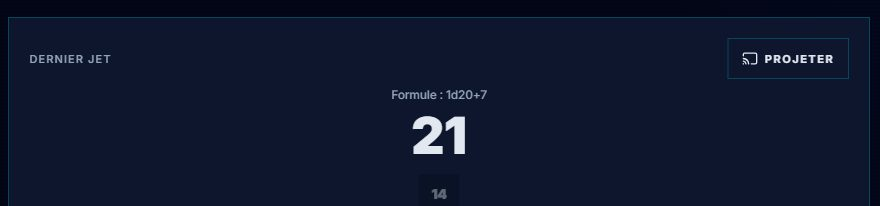
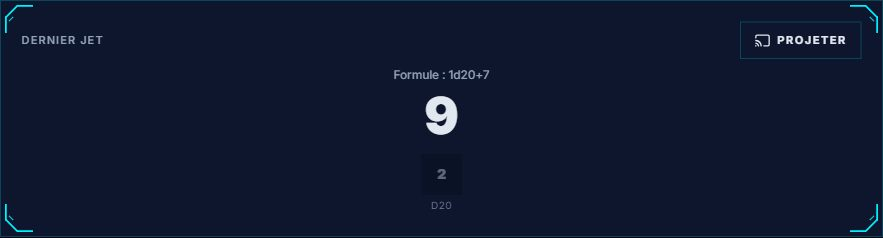
fix(manuel): cadrer le panneau du dernier jet
Capturer le panneau entier plutot qu'un rectangle fixe qui coupait
le detail du de. Rendre le scenario autonome et remplacer uniquement
la capture du guide de projection, apres relecture.

Validation : construction, types, lint global sans diagnostic,
52 tests des protections et un scenario Electron cible reussis.
Consigner l'import PDF valide par David et cloturer cette serie.

A la demande de David : "j'ai fait l'import d'un PDF c'est bon.
Commite et pousse ce qu'il reste". Fichiers etrangers exclus.

diff --git a/e2e/capturesDuManuel.spec.ts b/e2e/capturesDuManuel.spec.ts
@@ -455,7 +455,20 @@ test.describe('les écrans des guides', () => {
     test('le dernier jet de dés', async () => {
         await fermer();
         await ouvrirLeModule(gmos, 'Dice-OS');
-        await capturer('dice-dernier-jet', { x: 230, y: 208, width: 880, height: 206 });
+        // 09/10 : capturer le panneau entier ; un rectangle fixe coupait le détail du dé.
+        // Le scénario prépare son propre jet pour pouvoir régénérer cette seule image.
+        await gmos.fenetre.getByText('Attaque Épée Longue', { exact: true }).click();
+        const dernierJet = gmos.fenetre.locator('[data-panneau="2"]').filter({
+            has: gmos.fenetre.getByRole('heading', { name: 'Dernier jet', exact: true }),
+        });
+        await expect(dernierJet).toHaveCount(1);
+        await expect(dernierJet).toContainText('1d20+7');
+        await fermer();
+        await expect(dernierJet.getByRole('button', { name: 'Projeter', exact: true })).toBeVisible();
+        await dernierJet.screenshot({
+            path: path.join(SORTIE, 'dice-dernier-jet.jpg'), type: 'jpeg', quality: 82, scale: 'css',
+            animations: 'disabled', caret: 'hide',
+        });
     });
 
     test('la carte d’un combattant', async () => {

diff --git a/documentation/Planning/2026-08-23-chantiers-gares.md b/documentation/Planning/2026-08-23-chantiers-gares.md
@@ -142,8 +142,8 @@ rouvre jamais quand il le faudrait »*. **Il l'a fallu huit heures plus tard.**
 
 | Ce qu'on a vu | Comment le revoir | Pourquoi c'est différé |
 | --- | --- | --- |
-| ⚠ **09/10 : la capture du dernier jet laisse apparaître une partie du résultat précédent au bord inférieur.** | `dice-dernier-jet.jpg` du contrôle des 78 captures, dans `e2e-resultats/lint-captures-manuel-lot36` ; rectangle fixe du scénario inchangé (`x: 230, y: 208, width: 880, height: 206`) | **Cadrage du manuel à revoir séparément du typage** : viser le bloc du dernier jet et relire l'image. Aucune image suivie remplacée dans le lot 36. [Contrôle et reprise](2026-10-09-lint-captures-du-manuel.md) |
-| ✅ **09/10 : incompatibilité PDF v1/v2 corrigée au § 128.** | Constat initial : les lecteurs appelaient le module v2.4.5 comme une fonction v1 ; l'import refusait le parseur, l'index n'avait pas de texte PDF et l'IPC échouait | **Lot 39 réalisé, non commité** : lecteur `PDFParse` partagé, destruction attendue, PDF artificiels éprouvés dans l'import, l'index et l'IPC, puis sous Electron en mode Node. Aucun PDF réel lu. [Migration et contrôles](2026-10-09-migration-pdf.md), [constat initial](2026-10-09-lint-ia-et-fournisseurs.md) |
+| ✅ **09/10 : cadrage du dernier jet corrigé au § 129.** | Le rectangle fixe coupait le détail du **jet courant** et le bas du panneau ; le constat initial l'avait pris pour un résultat précédent | **Lot 40 livré dans le commit contenant cette entrée**, commit/push demandés par David : capture du panneau DOM entier, scénario autonome éprouvé seul, image du guide remplacée et relue. [Correction et reprise](2026-10-09-cadrage-dernier-jet.md), [constat initial](2026-10-09-lint-captures-du-manuel.md) |
+| ✅ **09/10 : incompatibilité PDF v1/v2 corrigée au § 128.** | Constat initial : les lecteurs appelaient le module v2.4.5 comme une fonction v1 ; l'import refusait le parseur, l'index n'avait pas de texte PDF et l'IPC échouait | **Lot 39 commité et poussé `1aefeb99`** : lecteur `PDFParse` partagé, destruction attendue, PDF artificiels éprouvés dans l'import, l'index et l'IPC, puis sous Electron en mode Node. Aucun PDF réel lu. [Migration et contrôles](2026-10-09-migration-pdf.md), [constat initial](2026-10-09-lint-ia-et-fournisseurs.md) |
 | ✅ **09/10 : une exception nulle ou un message non textuel casse le diagnostic d'erreur.** | Les quatre écrans/hooks lisent directement `.message` ; `null` provoque une seconde exception, un message numérique casse `.includes` dans la Forge | **Corrigé dans le lot 27 du § 127** : lecteur de message gardé, replis historiques paresseux et marqueur d'authentification conservés. Cas nuls testés dans NotebookLM/butin, reprise vérifiée ; le journal transmet l'exception intacte. Pas d'essai de reconnexion dans l'écran Forge. [Note](2026-10-09-lint-messages-erreur-et-hub.md) |
 | ✅ **09/10 : l'option hf_token de Gradio est ignorée par le SDK installé.** | `ClientOptions` 2.1 expose `token`, pas `hf_token` ; le typage de la génération d'image révèle ce décalage | **Corrigé dans le lot 24 du § 127** : même valeur d'environnement via `token`, deux cas de génération d'image avec SDK/téléchargement/rangement simulés et jeton artificiel ou absent. [Note](2026-10-09-lint-ia-et-fournisseurs.md) |
 | ✅ **08/10 : catégories du formulaire de chronologie hors contrat.** | Sept boutons dont `major/minor/discovery`, contre cinq catégories dans `TimelineEvent` et les filtres | **Corrigé dans le lot 23 du § 127**, selon David : « Aligner le formulaire sur les cinq catégories du modèle (recommandé) ». Les créations utilisent `major-event` ; pas de migration des événements existants. Formulaire et filtre majeur testés. [Note](2026-10-08-lint-interfaces-et-fiches.md) |
@@ -10695,6 +10695,45 @@ dernier jet reste au § 1 bis. Préserver les fichiers étrangers.
 
 ---
 
+**Publication du lot 39.** À la demande « ok commit et pousse 1 et 2 »,
+les douze fichiers PDF sont commités sous **`1aefeb99`** et poussés avec
+`004a814e` et `4e080992`. Pré-push réussi : types, lint sans diagnostic,
+**7 222 tests dans 568 fichiers** (un fichier et quatre tests ignorés),
+construction. Dernier local et poussé `1aefeb99`, branche synchronisée.
+
+### 129 · Cadrage du dernier jet dans le manuel — 09/10/2026
+
+**Origine.** David demande « fais le 3 » : corriger la capture du dernier jet,
+constat du § 1 bis, après publication du lot PDF.
+
+**Réalisé, non commité — lot 40.** `e2e/capturesDuManuel.spec.ts` capture
+le panneau entier, repéré par son titre, au lieu du rectangle fixe.
+Le scénario lance son propre jet rapide « Attaque Épée Longue » ; il est
+exécutable seul. L'image du guide 35 est remplacée et relue : **883 × 238 px**,
+formule, total, dé courant, libellé, bouton et contour complets.
+**Diagnostic précisé :** le morceau coupé était le dé courant, pas un résultat
+précédent. [Preuves et reprise](2026-10-09-cadrage-dernier-jet.md).
+
+**Éprouvé.** Construction, types, lint global (**1 590 fichiers, zéro erreur,
+zéro avertissement**), 52 tests de protection et un scénario Electron ciblé
+passent. Profil temporaire, chemins confinés et matériel désactivé ;
+aucun code applicatif modifié, aucune donnée réelle lue. Pas de nouvelle
+suite complète ou des 79 captures. `git diff --check` propre ; les 21 fichiers
+étrangers sont inchangés.
+
+**Reprise.** Six fichiers Codex non commités : scénario, image et quatre
+documents. Dernier local et poussé `1aefeb99`. Commit sur demande ; l'essai
+PDF représentatif dans l'interface reste distinct. Préserver les fichiers étrangers.
+
+**Clôture le 09/10.** David : **« j'ai fait l'import d'un PDF c'est bon.
+Commite et pousse ce qu'il reste »**. La validation dans l'interface du § 128
+est acquise. Les six fichiers du lot 40 sont livrés dans le commit contenant
+cette entrée ; push autorisé sur `feature/tablet-hub-pwa`, pré-push complet
+conservé et fichiers étrangers exclus. Trame, lint, PDF et cadrage terminés ;
+les essais en séance et sur le matériel restent distincts.
+
+---
+
 ## La vue d'un coup d'œil
 
 | # | Chantier | État | Le premier geste | Bloqué par |
@@ -10761,8 +10800,9 @@ dernier jet reste au § 1 bis. Préserver les fichiers étrangers.
 | 59 | **Le graphe de la Trame en cartes** | ✅ **G0–G7 achevés le 07/10**, § 124. [Cartes et inspecteur](2026-10-07-trame-cartes-realisation.md), [styles](2026-10-07-trame-edition-des-liens.md), [jonctions](2026-10-07-trame-jonctions.md), [ELK intégré](2026-10-07-trame-organisation-elk.md), [prise facilitée](2026-10-07-trame-prise-des-jonctions.md), [sélection multiple construite](2026-10-07-trame-selection-multiple.md). [Six dispositions construites](2026-10-07-trame-types-de-rangement.md) : automatique, étoile, ligne, colonne, arbre, grille ; 724 tests et 34 E2E distincts validés pour ce lot, sept captures et douze planches relues | Évolutions du § 126 également validées par David le 08/10 | [Essai de David consigné le 07/10](2026-10-07-trame-validation.md) ; réalisation et reprise poussées (`1d94f84f`, `ed29f301`) |
 | 60 | **Le lint global** | ✅ **Réparé et contrôlé le 07/10**, § 125 : 1 526 fichiers, zéro erreur, 540 avertissements visibles ; validation complète, types, 6 797 tests et construction passent ; une erreur de lint bloque la validation | Traiter les avertissements à la reprise des modules | [Contrôles et reprise](2026-10-07-lint-global.md), correctif `57d0193c` ; commit et push demandés |
 | 61 | **Édition avancée des liens de Trame** | ✅ **Close et validée par David le 08/10**, § 126 : commentaire, trois accroches par côté, trajet manuel ; déplacement corrigé, types, lint global et construction passent, 19 scénarios Electron distincts après correction (6 802 tests validés pour le lot initial) | — | [Réalisation et reprise](2026-10-08-trame-edition-avancee.md) ; réalisation `84bc01c8`, push demandé |
-| 62 | **Avertissements du lint** | ✅ **540 → 0 avertissement, zéro erreur**, § 127 ; lot 38 commité `4e080992`, dernier poussé `916a3842`. Après la migration PDF séparée : zéro annotation explicite `any` dans `src/`, `electron/` et `e2e/` | Chantier lint terminé | [Analyse](2026-10-08-audit-avertissements-lint.md), [lot 38](2026-10-09-lint-ponts-du-storyboard.md) |
-| 63 | **Lecteurs PDF v2** | ✅ **Lot 39 réalisé non commité**, § 128 : import, index RAG et IPC corrigés ; destruction attendue ; construction, lint et 179 tests passent, PDF artificiels aussi éprouvés sous Electron en mode Node | Commit sur demande | [Migration et reprise](2026-10-09-migration-pdf.md) |
+| 62 | **Avertissements du lint** | ✅ **540 → 0 avertissement, zéro erreur**, § 127 ; lot 38 commité `4e080992` et poussé jusqu'à `1aefeb99`. Après la migration PDF séparée : zéro annotation explicite `any` dans `src/`, `electron/` et `e2e/` | Chantier lint terminé | [Analyse](2026-10-08-audit-avertissements-lint.md), [lot 38](2026-10-09-lint-ponts-du-storyboard.md) |
+| 63 | **Lecteurs PDF v2** | ✅ **Lot 39 commité et poussé `1aefeb99`**, § 128 ; import PDF dans l'interface validé par David le 09/10 : « j'ai fait l'import d'un PDF c'est bon ». Pré-push : types, lint, 7 222 tests, construction réussis | Terminé | [Migration et reprise](2026-10-09-migration-pdf.md) |
+| 64 | **Capture du dernier jet** | ✅ **Lot 40 livré dans le commit contenant cette entrée**, § 129 ; commit et push demandés par David le 09/10. Panneau entier, scénario autonome, image remplacée et relue ; construction, types, lint, 52 tests de protection et un scénario Electron passent | Terminé | [Correction et reprise](2026-10-09-cadrage-dernier-jet.md) |
 
 ### Ce que la soirée du 2026-08-23 a fermé
 

diff --git a/documentation/Planning/2026-10-09-cadrage-dernier-jet.md b/documentation/Planning/2026-10-09-cadrage-dernier-jet.md
@@ -1,0 +1,69 @@
+# Cadrage du dernier jet — lot 40 — 09/10/2026
+
+David demande « fais le 3 » : corriger le cadrage de la capture du dernier jet
+du manuel, après publication du lot PDF et des deux commits locaux précédents.
+Dernier local et poussé : **`1aefeb99`**. Pré-push réussi : types, lint global
+sans diagnostic, **7 222 tests dans 568 fichiers** (un fichier et quatre tests
+ignorés), construction. La branche est synchronisée.
+
+## Correction
+
+Le rectangle fixe de `capturesDuManuel.spec.ts`, à `230, 208, 880, 206`,
+coupait le bas du panneau. La capture vise désormais **le panneau DOM entier**,
+repéré par `data-panneau="2"` et son titre « Dernier jet ». Sa taille réelle
+détermine le cadrage, sans coordonnées liées au placement du module.
+
+Le scénario lance lui-même le jet rapide « Attaque Épée Longue », vérifie
+la formule `1d20+7`, ferme les surcouches et attend le bouton « Projeter ».
+Il peut être lancé seul, sans dépendre du scénario `dice-un-jet`.
+Les options JPEG (qualité 82), échelle CSS et animations désactivées restent.
+
+**Correction du diagnostic initial :** le fragment du bas n'était pas un
+ancien résultat. Le `14` sous le total `21` de l'ancienne image est le dé
+courant, avant le bonus de sept. C'est le détail du jet actuel qui était coupé,
+avec son libellé `d20` et le bord inférieur du panneau.
+
+## Image et contrôles
+
+La nouvelle image **883 × 238 px** a été relue : titre, formule, total,
+dé courant, libellé `d20`, bouton de projection et contour complet visibles ;
+aucun historique inclus. Capture produite dans
+`e2e-resultats/cadrage-dernier-jet-lot40/dice-dernier-jet.jpg`, puis copiée
+à l'identique vers [l'image du guide](../User%20Guides/captures/dice-dernier-jet.jpg).
+Le [guide de projection](../User%20Guides/35-Projeter-un-jet.md) la référence
+déjà ; son texte est conservé.
+
+- **Construction `npm run build` réussie**, puis `npx tsc -b` propre.
+- Lint ciblé et global propres : **1 590 fichiers, zéro erreur, zéro avertissement**.
+- **52 tests des protections passent** : périmètre d'instance et sauvegarde.
+- **Un scénario Electron passe seul**, en 18,7 s :
+  `npx playwright test e2e/capturesDuManuel.spec.ts --grep "le dernier jet de dés" --timeout=90000 --reporter=list`.
+- `GMOS_SORTIE_CAPTURES_MANUEL` vise le dossier de contrôle ignoré. Seule
+  l'image du dernier jet est remplacée dans les captures suivies.
+- `git diff --check` propre ; empreintes des **21 fichiers étrangers** inchangées.
+
+Profil temporaire, sauvegardes/corpus/coffre forcés sous ce profil,
+matériel désactivé et contrôle de l'isolation avant les gestes.
+Le lanceur étranger est utilisé tel quel. Aucune modification de `src/`
+ou `electron/`, aucune lecture des données personnelles, aucun paquet installé.
+Le premier filtre shell mal cité n'avait trouvé aucun test ; le filtre
+passé directement à PowerShell a lancé uniquement le scénario demandé.
+La suite des 79 captures n'est pas rejouée ; aucune autre image remplacée.
+
+## Reprise
+
+**Six fichiers Codex non commités** : scénario, image JPEG et quatre documents.
+Dernier local et poussé **`1aefeb99`**. La correction est terminée, prête pour
+commit sur demande. Préserver les guides, le lanceur e2e, la note du 07/10
+et `.claude` étrangers. L'essai PDF représentatif dans l'interface reste
+une validation distincte, pas une correction encore connue.
+
+## Validation de David et clôture — 09/10
+
+David confirme : **« j'ai fait l'import d'un PDF c'est bon. Commite et pousse
+ce qu'il reste »**. L'import PDF est donc éprouvé dans l'interface.
+Les six fichiers de ce lot sont réunis dans le commit contenant cette note,
+avec push autorisé sur la branche existante `feature/tablet-hub-pwa`.
+Les modifications étrangères sont exclues. La validation complète du hook
+pré-push est conservée. Trame, lint, migration PDF et cadrage sont terminés ;
+les essais en séance et sur le matériel restent distincts.

diff --git a/documentation/Planning/2026-10-09-etat-et-reprise.md b/documentation/Planning/2026-10-09-etat-et-reprise.md
@@ -560,3 +560,48 @@ le cadrage de la capture du dernier jet reste séparé au § 1 bis.
 Préserver les fichiers étrangers. Pièges : ne pas appeler directement le
 module pdf-parse v2 ; attendre la destruction ; employer `query` dans la
 sélection RAG. Les PDF artificiels ne valident pas tous les manuels, aucun OCR.
+
+## Publication du lot 39 et lot 40 — cadrage du dernier jet
+
+David demande « ok commit et pousse 1 et 2 ». Les douze fichiers Codex PDF
+sont commités sous **`1aefeb99`** et poussés avec `004a814e` et `4e080992`.
+Pré-push vert : types, lint global sans diagnostic, **7 222 tests dans
+568 fichiers** (un fichier et quatre tests ignorés), construction.
+Le contrôle automatique avait refusé l'envoi faute d'identification suffisante
+du distant ; après vérification du remote existant et de ses envois antérieurs,
+le même push a été autorisé. Branche synchronisée, modifications étrangères exclues.
+
+Puis David demande « fais le 3 ». Le [lot 40](2026-10-09-cadrage-dernier-jet.md)
+remplace le rectangle fixe du dernier jet par la capture du panneau entier,
+repéré par son titre. Le scénario prépare son propre jet et passe seul.
+**Diagnostic précisé :** le fragment du bas était le dé courant, pas un résultat
+précédent ; son libellé et le contour étaient coupés.
+
+La nouvelle image **883 × 238 px** est relue et remplace uniquement
+`documentation/User Guides/captures/dice-dernier-jet.jpg`, déjà liée au guide 35.
+Formule, total, dé, libellé et bouton Projeter sont entiers. Construction,
+types, lint ciblé/global (**1 590 fichiers, zéro diagnostic**), 52 tests
+d'isolation/sauvegarde et **un scénario Electron ciblé** passent.
+Profil jetable et chemins confinés vérifiés ; aucun code applicatif modifié.
+Les 79 captures ne sont pas régénérées. `git diff --check` propre et
+empreintes des 21 fichiers étrangers inchangées.
+
+**Six fichiers Codex non commités**, scénario, image et quatre documents.
+Dernier local et poussé **`1aefeb99`**. Correction du cadrage terminée ;
+commit sur demande. L'essai d'un PDF représentatif dans l'interface reste
+une validation distincte. Préserver les fichiers étrangers.
+
+## Validation PDF et clôture du lot 40 — 09/10
+
+David confirme **« j'ai fait l'import d'un PDF c'est bon. Commite et pousse
+ce qu'il reste »**. L'essai PDF dans l'interface est réussi et consigné au
+registre. Les six fichiers Codex du cadrage sont réunis dans le commit
+contenant cette note, puis poussés sur la branche existante
+`feature/tablet-hub-pwa`, avec le contrôle complet pré-push conservé.
+Les fichiers étrangers sont exclus.
+
+Les travaux de cette série sont terminés : Trame, lint et annotations
+explicites, lecteurs PDF et capture du dernier jet. Rien à reprendre dans
+ces corrections ; les essais en conditions de séance et sur le matériel
+restent distincts. Vérifier `git log` pour le hash de cette livraison et
+l'état de l'envoi ; préserver les modifications étrangères.

diff --git a/documentation/Planning/2026-10-09-lint-captures-du-manuel.md b/documentation/Planning/2026-10-09-lint-captures-du-manuel.md
@@ -100,3 +100,22 @@ résolution des pilotes conservés. Lint global propre, construction/types et
 **96 tests dans neuf fichiers** passent ; huit cas ajoutés. **Neuf fichiers
 Codex non commités**. Reprendre Storyboard masqué (4) ; PDF et cadrage du
 dernier jet restent séparés au § 1 bis.
+
+## Cadrage corrigé séparément — lot 40
+
+Après publication du lot PDF sous **`1aefeb99`**, David demande « fais le 3 ».
+La [correction du cadrage](2026-10-09-cadrage-dernier-jet.md) capture le panneau
+entier à partir du titre « Dernier jet », sans rectangle fixe. Le scénario
+lance son propre jet et passe seul ; une seule image du guide est remplacée.
+
+La relecture précise le constat : le fragment était le dé du jet courant,
+pas un résultat précédent. La nouvelle image **883 × 238 px** montre le dé
+et son libellé, la formule, le total, le bouton et le contour complet.
+Construction, types, lint global sans diagnostic, 52 tests des protections
+et un scénario Electron ciblé passent. Aucun code applicatif ou fichier étranger
+modifié. Six fichiers Codex non commités ; dernier local et poussé `1aefeb99`.
+
+**Clôture du 09/10.** David valide l'import PDF (« j'ai fait l'import d'un PDF
+c'est bon ») et demande « Commite et pousse ce qu'il reste ». Les six fichiers
+du cadrage sont livrés dans le commit contenant cette entrée, avec contrôle
+pré-push complet. Aucun fichier étranger inclus ; ce cadrage n'est plus à reprendre.
